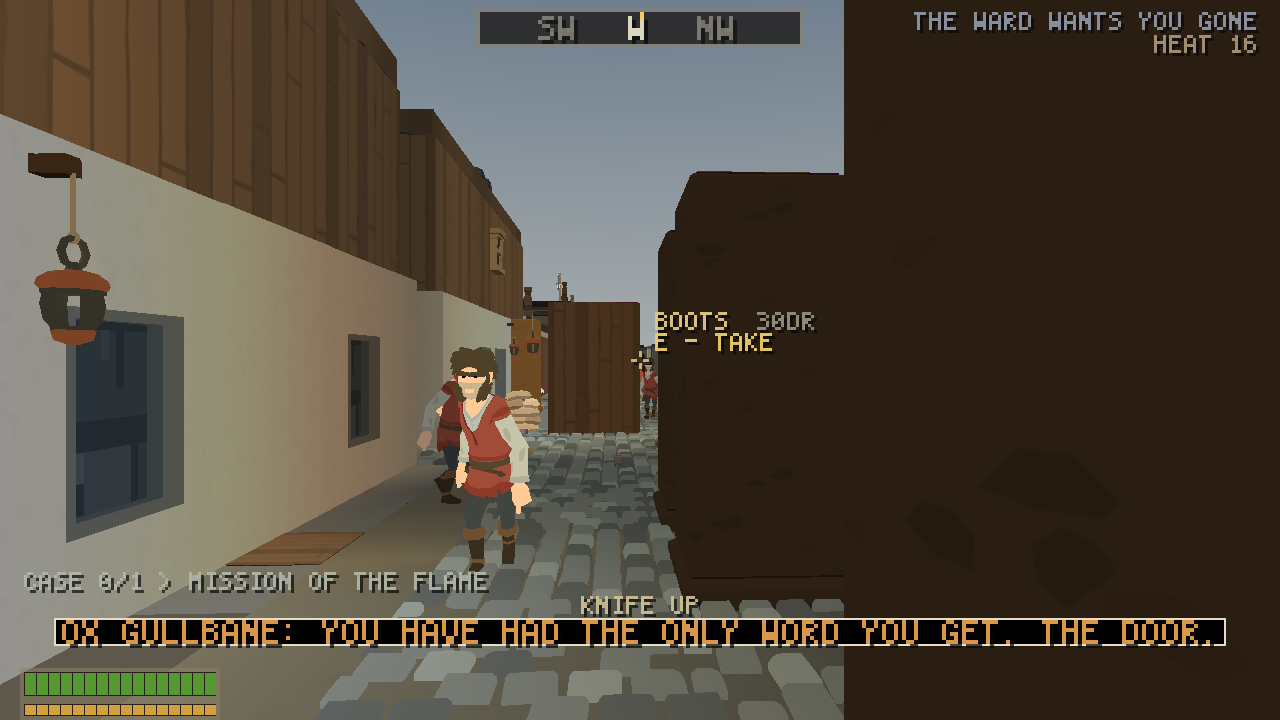
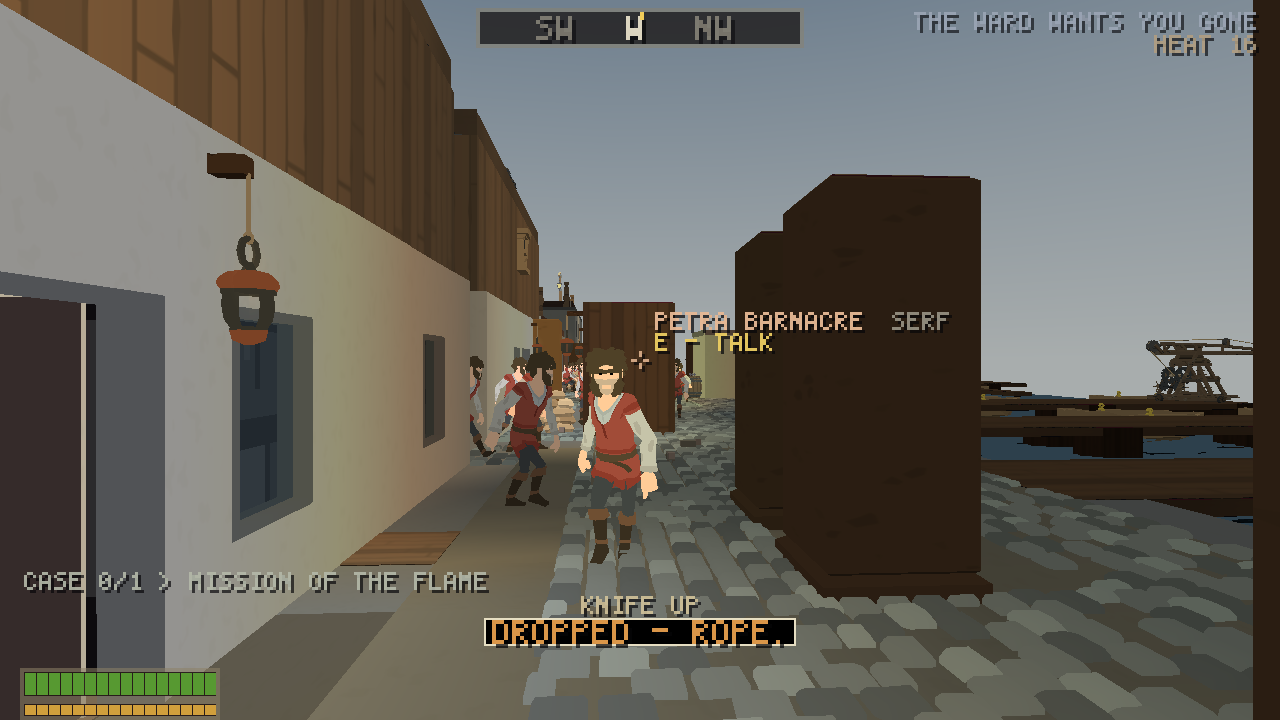
wip(kit): the coil put down a row north of the dockers' line and a tile from the eye; the DR frame settles twelve steps so its row has eased up; the record carries the final tavern number

diff --git a/native/src/render/session.cpp b/native/src/render/session.cpp
@@ -11935,19 +11935,22 @@ void standAtFacing(Session& session, std::int32_t standX, std::int32_t standY,
     }
 
     // 9. DROP: out to the Tarwalk in daylight, the coil put down through the
-    // tile's own X on a tile clear of the quay's clutter, then two tiles
-    // back, facing it, so the frame has it on the boards.
+    // tile's own X on a tile clear of the quay's clutter, then a tile back,
+    // facing it, so the frame has it on the boards.
     session.closeConversation();
-    walkToTile(session, 154, 63);
+    walkToTile(session, 154, 62);
     session.closeConversation();
     if (openKitRow(session, "rope")) {
         session.dropHighlightedKitRow();
     }
     session.closeConversation();
-    standAtFacing(session, 156, 63, 154, 63);
+    // One tile back, off the dockers' own line down the middle of the quay,
+    // so the coil is in reach whatever side of the tile the walk landed on
+    // and nobody is standing on it for the frame.
+    standAtFacing(session, 155, 62, 154, 62);
     bool coilDown = false;
     for (const sim::GroundItem& entry : tavern.groundItems()) {
-        if (entry.item == item("rope") && entry.x == 154 && entry.y == 63) {
+        if (entry.item == item("rope") && entry.x == 154 && entry.y == 62) {
             coilDown = true;
         }
     }

diff --git a/docs/design/DECISIONS.md b/docs/design/DECISIONS.md
@@ -67,7 +67,7 @@ Engine/sim decisions live in ARCHITECTURE.md; this file records the GAMEPLAY lay
[1 lines of base64/hex data omitted]
 | — | Justice fix pass: the critic's eleven defects closed, no baseline moved (added 2026-09-11) | **A world-class-director critique of the justice build scored it 7/10 and named eleven defects; every one is closed on `justice/build` and the two numbers did not move.** (1) **The arrest has its moment on screen** before the bench does anything: the officer's own line (`watch.held` / `maimed` / `condemned`) said on the alert row IN THE ROOM with his hand on you and held `kTakenOfficerSteps` (150), then the cut -- black, one line in the rope plate's register, `TAKEN TO THE MISSION. 23:00.`, held `kTakenPlateSteps` (105) -- then the body at the Mission's door and the page. Every key but Pause is swallowed under the beat; `inCustody()` covers it; the crosshair promises nothing. Pinned on the RENDERED FRAME in `test_hearing_page.cpp` (the drawn frame is the plate byte for byte against the plate composed alone over black, and not black alone). (2) **The priest's openings are keyed by the case** and rotate only within the case: `court.paper` (a thief the Mission has never seen) / `court.paper.door` (THE DOOR above zero), `court.blood`, `court.roofs.hand` / `court.roofs.rope`, `court.nothing` -- sixteen `court.*` tables, three rows each, and every row of a table is true of every hearing that table can open (no row names a gift, a rope, a corpse or a night the sheet may not carry; the lie rows never name the sentence's shape; the learned word is never said to a layman, not even nearly -- ruling 8 of the spec is superseded). Every redlined row rewritten; the full list in `docs/frames/justice/README.md`. (3) **The check block is packed by whole terms** (`packTerms`): a row breaks only between terms, so `- 20 THE WARD` never parts from its sign at 640, 960 or 1280; the row of air before the verdict is the one row that gives at the narrowest window. (4) **A night is a whole night**: `cellNights` rounds the draw's 24..72 h to the nearest night ONCE, in `sentenceTerms`, so `TWO NIGHTS` is 48 h on the clock and the release lands on the same clock face (`DAY 3. 23:00.` from `DAY 1 23:00`, not `DAY 4. 00:00.`); the residue itself is untouched (same-roll discipline). (5) The officer's walking-in line leaves a judged page; (6) no `[THE PRIEST WEIGHS]` badge over nothing (mercy once) and no `55 SPARED` on a confession's lines; (7) each tier's consequence literal says only what is on the table (no rope named on a cell or hand charge; `MERCY OR THE ROPE, AND NOTHING ELSE.` / `AND NEVER SPARED.` on the rope's); (8) the short-way `CrimeLedger::arrest()` writes combat/build's bits exactly on the Condemned rung (`condemned_` + `maimed_`, not `commuted_`, `murderer_` untouched) and the bit-for-bit comment is true again; (9) the HUD tag row fits its 34 columns by construction (a commuted man with fresh blood is `WANTED FOR BLOOD`, the riders drop whole, the number is never lost). (10) **The end rows arm before they take** (the QUIT pattern; `-- SURE? <key>` on the tail; ESC/B disarms), which is also what makes the A NEW MAN frame a distinct state. (11) **`--court=` photographs every state a real verb sequence can reach**: `cull` (his line, his hand on you), `taken` (the plate), `armed`, `hand` (the Skyrunners' oath off Finch first, so the paper asks for the hand and I DID IT lands THE HAND -- real play), `bloodtag`, `ropepage` (THE DROP offered, not taken), beside `wanted`, `page`, `paper`, `plea`, `deny`, `serve`, `rope`, `newman` (armed, then taken). SPARED, COMMUTED, the CONDEMNED tag and the mercy-once page need a warmer ward than the smoke's nobody can earn in one evening and are DECLARED GAPS, proved in the suite and not on a frame. `scripts/shoot-court.ps1` shoots the whole set; the stale 640x360 set is deleted. The critic re-scored it 8/10 and left four nits, folded in: the hand tier's check block prints its own lines (`THE LINES: 38 HELD  14 THE HAND`, no FINED on that tier), the rope's sentence row is the post and the hour (`THE SALTGATE POST. 22:00.`) and not an echo of the badge, the pause menu's WAIT row under the arrest beat reads and says `THE WATCH HAS YOU.` (keyed on `inCustody()`), and the frames README points at the script rather than an ignored log. **No baseline moved**: the tavern twin reads `0x837E94019BC49C25` and the population `0x2646C1AAA2BA38DF` off the re-gated exe (run A == run B, both) -- no hashed field changed, the workload never pleads or serves, the rounding lives in a pure function of the record. |
 
-| — | The Kit landed: the item record, the load, the worn slots, defence v1 (added 2026-09-12) | **D10 of the Oblivion roadmap is BUILT on `lane/kit`, as ruled: inventory lives on the Character tile; gold stays weightless and is not an item; IN HAND is always printed once the Kit exists; a worn slot prints only when the raws hold an item for it; defence v1 is flat integer DR per worn piece; WardActors carry, drop and yield nothing.** Eli, through the wizard, 2026-09-11: *"THE KIT IS A GO."* **THE RECORD:** `content/raws/items/items.json` is the registry (`sim/items.hpp`, the spellbook's tolerant loader shape, document order): id, name, weight in DRAMS, worth in Royals, slot (hand / body / head / feet / trinket / none -- FEET is the one row past the ruling's four, because the authored set carries boots and a boot is not a trinket), the brawl line's own class as a column (`Weapon` is untouched: `strike()` and `classifyFight` read the class exactly as before), the class's span (an authored span that disagrees with its class is REFUSED at load, so the sheet and the roll cannot lie to each other), DR, heat, and one line in the ward's own register. Twenty-three rows, every one a docker's thing: the cudgel, THE EVICTOR (by the id the eviction case grants), a mace, a bottle, a knife, a dagger, a cutlass, a boat-hook, a coat, a hood, boots, a purse, a lantern, a rope, picks, a letter, the bale, the strongbox (fixed: it has a record so the world can draw it and the prompt can name it, and TAKE refuses it out loud), and the five sack goods. **THE KIT** is dense int32 counts per row (the Stash pattern copied whole: hashed, `encode()`/`decode()` BY ID so an appended raw never moves a saved Kit, an id the raws lost refuses the whole image) plus the equip map, one worn row per slot. **THE SACK STAYS THE ILLICIT VIEW:** the five contraband goods are rows so the sheet prints them, but their counts stay in `CrimeLedger::stash()` (hashed under the ledger, codec v5, read by the Watch's load rule, the impound, the contract board and the radiant work); the picks stay on their counter for the same reason; the Kit never stores either and the tile composes one list out of the three. Folding the sack into the Kit would have re-cut the court's codec and six readers for no feel the player could see -- he sees ONE list either way. **THE HAND IS DERIVED:** `playerWeapon()` is the worn hand row's class when one is worn, else the byte `setPlayerCombat`/the enum grant set (the tests' and drives' way of arming a hand with no item behind it; a direct arming bares the hand row). `grantPlayerWeapon("the_evictor")` puts THE EVICTOR in the Kit and on the hand as a THING: weighed, printed, droppable. **THE LOAD:** every dram on the body (the Kit, the sack, the bale on the shoulder, the picks) against `loadCapDrams(MGT) = 160 + 2 x MGT` -- 240 at the base sheet, the sack's own 240, PROGRESSION-SPEC section 5's `300 + 20 x MGT` in this build's units, off the EFFECTIVE sheet so a held Might tuning carries more. TAKE refuses past it with the numbers on the row (`TOO MUCH ON YOU ALREADY. 238 OF 240 DRAMS.`); the legs slow through `loadSpeedScaleQ8` (256 to half the budget, down to 128 at it) composed with AGI's gait at the one movement seam (`Session::step`, `PlayerBody::setSpeedScaleQ8`) -- player only, integer, never a WardActor. **DEFENCE v1:** the sum of every worn piece's DR comes off a landed blow AFTER the guard has argued, floored at one point through any coat (blockedDamage's own floor, for its reason: armour that nulls a blow turns the fight OFF), at the ONE place a blow lands on the body (`stepBrawl`); HARNESS trains on a blow the kit softened; the row says `COAT TURNS 2.` once per blow. COMBAT-SPEC's coverage-weighted AC and per-part wear stay the v2 ceiling. **THE VERBS, through the existing interact chain and the Menu's own grammar, no new key:** the crosshair names the thing (`TAKE  ROPE  48DR`, `TAKE QUIETLY` crouched -- the stance moves who notices, never the verb) and says THEIRS in its own Owned accent (the reference's red hand) BEFORE the press when taking it is theft (the same three-clause witness rule, `Crime::Lift`, `Deed::Robbed`, the house's own offence); a thing on the ground outranks the street's people (a mouse was TALK over a rope) and a named lead outranks the thing (the investigation first); a Dead roster body in reach is `SEARCH  <NAME>  DEAD` when no living body is nearer, and the press opens his kit -- the authored corpse kit for his name, then his role, less what was taken (a hashed mask), TAKE ALL as the last row -- on the Grimoire widget (`grimoireOpen_` with a corpse id: no fifteenth page flag); the dead do not witness the taking and nothing in the ward's law names it (v1). On the Character tile: IN HAND, the worn slot rows (`ON THE BACK  COAT  DR 2`, `AT THE BELT  NOTHING`), `LOAD  151 / 240 DRAMS`, then every carried row with its weight and worth and its IN HAND / WORN / SLOT n / HOT marks; ENTER wears or bares the row, LEFT/RIGHT walk its quick slot (the Grimoire's own cycle: a slot is a spell OR an item, tagged `item:<id>`, and the strip and the number key read either), X drops it at the feet. **THE WORLD DRAWS IT:** `PieceRole::Item` and the catalogue's `items` table (`content/raws/world3d/docks-pieces.json`: one Synty static per item id, a point-up weapon pitched flat) -- `render3d/ground_items.cpp` writes the room's hashed ground list, the four strongboxes and the snug's bale as instances per frame after the placed pieces; the renderer never removes one (TAKE does, in the sim); the placeholder rule holds (no file, no draw, the sim untouched). **THE ONE DECLARED tavern/gate-workload baseline move, re-blessed ONCE: `0x837E94019BC49C25` (justice/build) -> `0x4AD7CF75C5A0A326` (lane/kit), `granadad-twin-gate --tavern --ticks 900`, run A == run B** -- the Kit's counts and worn rows, the ground list, the corpse masks and the turned-blow counters joined `Tavern::hash_into`; the workload never takes, drops or wears and the draw schedule did not move. The population baseline `0x2646C1AAA2BA38DF` did NOT move (no WardActor touched; the street carries nothing, by ruling). **A corpse-convention fix found by the line, folded in:** the door's responder was replaced only when `Downed`, so a bouncer the player had KILLED was stood back up by the ladder's own `setActivity` and could be talked to; the responder, the on-duty pick and the vermin loops read `isFloored` now. **NOT done, said so:** attributes deriving from skills (D10's last clause) -- every runtime reader of MGT/AGI/VIG/WIT and every pinned pool, gait and damage number moves with it, so it is its own gated pass; the load budget already reads `effectiveAttributes()` and follows the day it lands. Proved by `test_kit.cpp` (17 cases), `test_kit_page.cpp` (6), the rewritten `test_character.cpp` pins (24 rows bare, 25 armed) and the `--kit[=take|theirs|sheet|equip|slot|dr|search|load|drop]` line in `test_scripted_lines.cpp`; photographed through that line into `docs/frames/kit/` (`scripts/shoot-kit.ps1`), its README the fidelity table. |
+| — | The Kit landed: the item record, the load, the worn slots, defence v1 (added 2026-09-12) | **D10 of the Oblivion roadmap is BUILT on `lane/kit`, as ruled: inventory lives on the Character tile; gold stays weightless and is not an item; IN HAND is always printed once the Kit exists; a worn slot prints only when the raws hold an item for it; defence v1 is flat integer DR per worn piece; WardActors carry, drop and yield nothing.** Eli, through the wizard, 2026-09-11: *"THE KIT IS A GO."* **THE RECORD:** `content/raws/items/items.json` is the registry (`sim/items.hpp`, the spellbook's tolerant loader shape, document order): id, name, weight in DRAMS, worth in Royals, slot (hand / body / head / feet / trinket / none -- FEET is the one row past the ruling's four, because the authored set carries boots and a boot is not a trinket), the brawl line's own class as a column (`Weapon` is untouched: `strike()` and `classifyFight` read the class exactly as before), the class's span (an authored span that disagrees with its class is REFUSED at load, so the sheet and the roll cannot lie to each other), DR, heat, and one line in the ward's own register. Twenty-three rows, every one a docker's thing: the cudgel, THE EVICTOR (by the id the eviction case grants), a mace, a bottle, a knife, a dagger, a cutlass, a boat-hook, a coat, a hood, boots, a purse, a lantern, a rope, picks, a letter, the bale, the strongbox (fixed: it has a record so the world can draw it and the prompt can name it, and TAKE refuses it out loud), and the five sack goods. **THE KIT** is dense int32 counts per row (the Stash pattern copied whole: hashed, `encode()`/`decode()` BY ID so an appended raw never moves a saved Kit, an id the raws lost refuses the whole image) plus the equip map, one worn row per slot. **THE SACK STAYS THE ILLICIT VIEW:** the five contraband goods are rows so the sheet prints them, but their counts stay in `CrimeLedger::stash()` (hashed under the ledger, codec v5, read by the Watch's load rule, the impound, the contract board and the radiant work); the picks stay on their counter for the same reason; the Kit never stores either and the tile composes one list out of the three. Folding the sack into the Kit would have re-cut the court's codec and six readers for no feel the player could see -- he sees ONE list either way. **THE HAND IS DERIVED:** `playerWeapon()` is the worn hand row's class when one is worn, else the byte `setPlayerCombat`/the enum grant set (the tests' and drives' way of arming a hand with no item behind it; a direct arming bares the hand row). `grantPlayerWeapon("the_evictor")` puts THE EVICTOR in the Kit and on the hand as a THING: weighed, printed, droppable. **THE LOAD:** every dram on the body (the Kit, the sack, the bale on the shoulder, the picks) against `loadCapDrams(MGT) = 160 + 2 x MGT` -- 240 at the base sheet, the sack's own 240, PROGRESSION-SPEC section 5's `300 + 20 x MGT` in this build's units, off the EFFECTIVE sheet so a held Might tuning carries more. TAKE refuses past it with the numbers on the row (`TOO MUCH ON YOU ALREADY. 238 OF 240 DRAMS.`); the legs slow through `loadSpeedScaleQ8` (256 to half the budget, down to 128 at it) composed with AGI's gait at the one movement seam (`Session::step`, `PlayerBody::setSpeedScaleQ8`) -- player only, integer, never a WardActor. **DEFENCE v1:** the sum of every worn piece's DR comes off a landed blow AFTER the guard has argued, floored at one point through any coat (blockedDamage's own floor, for its reason: armour that nulls a blow turns the fight OFF), at the ONE place a blow lands on the body (`stepBrawl`); HARNESS trains on a blow the kit softened; the row says `COAT TURNS 2.` once per blow. COMBAT-SPEC's coverage-weighted AC and per-part wear stay the v2 ceiling. **THE VERBS, through the existing interact chain and the Menu's own grammar, no new key:** the crosshair names the thing (`TAKE  ROPE  48DR`, `TAKE QUIETLY` crouched -- the stance moves who notices, never the verb) and says THEIRS in its own Owned accent (the reference's red hand) BEFORE the press when taking it is theft (the same three-clause witness rule, `Crime::Lift`, `Deed::Robbed`, the house's own offence); a thing on the ground outranks the street's people (a mouse was TALK over a rope) and a named lead outranks the thing (the investigation first); a Dead roster body in reach is `SEARCH  <NAME>  DEAD` when no living body is nearer, and the press opens his kit -- the authored corpse kit for his name, then his role, less what was taken (a hashed mask), TAKE ALL as the last row -- on the Grimoire widget (`grimoireOpen_` with a corpse id: no fifteenth page flag); the dead do not witness the taking and nothing in the ward's law names it (v1). On the Character tile: IN HAND, the worn slot rows (`ON THE BACK  COAT  DR 2`, `AT THE BELT  NOTHING`), `LOAD  151 / 240 DRAMS`, then every carried row with its weight and worth and its IN HAND / WORN / SLOT n / HOT marks; ENTER wears or bares the row, LEFT/RIGHT walk its quick slot (the Grimoire's own cycle: a slot is a spell OR an item, tagged `item:<id>`, and the strip and the number key read either), X drops it at the feet. **THE WORLD DRAWS IT:** `PieceRole::Item` and the catalogue's `items` table (`content/raws/world3d/docks-pieces.json`: one Synty static per item id, a point-up weapon pitched flat) -- `render3d/ground_items.cpp` writes the room's hashed ground list, the four strongboxes and the snug's bale as instances per frame after the placed pieces; the renderer never removes one (TAKE does, in the sim); the placeholder rule holds (no file, no draw, the sim untouched). **THE ONE DECLARED tavern/gate-workload baseline move, re-blessed ONCE: `0x837E94019BC49C25` (justice/build) -> `0x63F354D02A6B600F` (lane/kit), `granadad-twin-gate --tavern --ticks 900`, run A == run B** -- the Kit's counts and worn rows, the ground list, the corpse masks and the turned-blow counters joined `Tavern::hash_into`; the workload never takes, drops or wears and the draw schedule did not move. The population baseline `0x2646C1AAA2BA38DF` did NOT move (no WardActor touched; the street carries nothing, by ruling). **A corpse-convention fix found by the line, folded in:** the door's responder was replaced only when `Downed`, so a bouncer the player had KILLED was stood back up by the ladder's own `setActivity` and could be talked to; the responder, the on-duty pick and the vermin loops read `isFloored` now. **NOT done, said so:** attributes deriving from skills (D10's last clause) -- every runtime reader of MGT/AGI/VIG/WIT and every pinned pool, gait and damage number moves with it, so it is its own gated pass; the load budget already reads `effectiveAttributes()` and follows the day it lands. Proved by `test_kit.cpp` (17 cases), `test_kit_page.cpp` (6), the rewritten `test_character.cpp` pins (24 rows bare, 25 armed) and the `--kit[=take|theirs|sheet|equip|slot|dr|search|load|drop]` line in `test_scripted_lines.cpp`; photographed through that line into `docs/frames/kit/` (`scripts/shoot-kit.ps1`), its README the fidelity table. |
 
 Spec documents (produced by the gameplay spec track, live in this folder):
 - `COMBAT-ACTION-SPEC.md` — the BUILT action-combat model (spec + veto pass assembled): sightline raycast, in-world lethal rules, death, murder hook, the build-lane contract

diff --git a/docs/frames/kit/README.md b/docs/frames/kit/README.md
@@ -26,10 +26,10 @@ number is the budget, the hand is mirrored on the HUD, and the world draws the t
 | `kit-sheet-960x540.png` | `--kit=sheet` | The Character tile on the carried rows. `IN HAND  FISTS 3-5 IMPACT` ends page one. `ON THE BACK  NOTHING`, `ON THE HEAD`, `ON THE FEET`, `AT THE BELT`, `LOAD  151 / 240 DRAMS`, then `KNIFE  8DR  4C`, `COAT  60DR  12C`, `LANTERN  30DR  9C`, `ROPE  48DR  6C`, `5 PICKS  5DR  10C`. The epithet is the verbs in the keyboard's own words. | The Inventory tab, weight and value per row, one budget | Same numbers, words instead of icons. No doll, by ruling. The equipment block is worded rows and only the slots the raws fill. |
 | `kit-equip-960x540.png` | `--kit=equip` | ENTER on the coat, ENTER on the knife. `ON THE BACK  COAT  DR 2`, `KNIFE  8DR  4C  IN HAND`, `COAT  60DR  12C  WORN`. `IN HAND  KNIFE 11-13 EDGE` on page one. | Equip on a row, the doll changes | Same press. The consequence is the row's own mark and the DR beside the slot, not a picture. |
 | `kit-slot-960x540.png` | `--kit=slot --settle-steps=0` | The knife walked onto slot 3 with RIGHT, the 3 key pressed. The strip at the foot, `KNIFE` in the third cell, the cell inverted, `SLOT 3 - KNIFE.` on the row. The hands row reads `KNIFE UP` when the hands come up. | The hotkey wheel readies a weapon without the menu | Same shape. A slot is a spell or an item, the number row and the D-pad step read either. |
-| `kit-dr-960x540.png` | `--kit=dr --settle-steps=0` | The clock at two. Fists on Ox Gullbane at the door, the coat on. His blow lands and `COAT TURNS 2` comes up in the centre stack on the step it did, its own row in the blocked wash's steel ink, held a plate's length. The body lost the rest. Ox's warning keeps the alert row, the house minds you. | Armor rating softening a hit | Flat DR per worn piece, floored at one, said once per blow. Coverage and wear are the v2 ceiling. |
+| `kit-dr-960x540.png` | `--kit=dr --settle-steps=12` | The clock at two. Fists on Ox Gullbane at the door, the coat on. His blow lands and `COAT TURNS 2` comes up in the centre stack on the step it did, its own row in the blocked wash's steel ink, held a plate's length. The body lost the rest. Ox's warning keeps the alert row, the house minds you. | Armor rating softening a hit | Flat DR per worn piece, floored at one, said once per blow. Coverage and wear are the v2 ceiling. |
 | `kit-search-960x540.png` | `--kit=search` | The knife back in hand off slot 3, Ox put down for good. Over him the crosshair reads `SEARCH  OX GULLBANE  DEAD`. The press opens his kit on the list widget, `1 CUDGEL  40DR  6C`, `2 BOOTS  30DR  8C`, `3 TAKE ALL`. | Search on a body, the transfer list, Take All | Same list, one column. What he carried is his role's authored kit, the roster only. The street's people carry nothing, by ruling. |
 | `kit-load-960x540.png` | `--kit=load` | Everything off him, the bottle and the hood off the tables. `LOAD  238 / 240 DRAMS` on the tile. The summary reads `legs=131/256`, half pace, and the next take would refuse with the numbers on the row. | Encumbrance, the slowdown, the hard stop | Same budget shape. 256 to half, down to 128 at the budget, TAKE refuses past it. |
-| `kit-drop-1280x720.png` | `--kit=drop --settle-steps=0` | Out on the Tarwalk in daylight. The coil put down through the tile's own X, `DROPPED - ROPE.` on the row, the body two tiles back facing it. The coil is the Synty rope knot on the boards, the crosshair names it again. | Drop, and the thing is in the world | Same shape. The renderer draws the room's own list and never removes a thing, TAKE does. |
+| `kit-drop-1280x720.png` | `--kit=drop --settle-steps=0` | Out on the Tarwalk in daylight. The coil put down through the tile's own X, `DROPPED - ROPE.` on the row, the body a tile back facing it. The coil is the Synty rope knot on the boards, the crosshair names it again. | Drop, and the thing is in the world | Same shape. The renderer draws the room's own list and never removes a thing, TAKE does. |
 | `kit-full-960x540.png` | `--kit` | The whole line, the tile again on what is left. | | The default ending. |
 
 ## The item table

diff --git a/docs/BASELINE-WORLD-HASH.md b/docs/BASELINE-WORLD-HASH.md
@@ -645,13 +645,13 @@ record did not have to be re-cut.
 ```
 at branch lane/kit,
 granadad-twin-gate --tavern --ticks 900
-COMBINED WORLD HASH: 0x837E94019BC49C25 -> 0x4AD7CF75C5A0A326      <- DECLARED and RE-BLESSED
+COMBINED WORLD HASH: 0x837E94019BC49C25 -> 0x63F354D02A6B600F      <- DECLARED and RE-BLESSED
 ```
 
 Recorded directly from `dist\granadad-twin-gate.exe --tavern --ticks 900` on
 Windows/mingw, two invocations, each `run A` == `run B` ==
-`0x4AD7CF75C5A0A326`, report text byte-identical (3,153 bytes) -- on the gate
-whose stamp names this tree (`native/` digest `GATE_DIGEST`, 323 files, 96/96
+`0x63F354D02A6B600F`, report text byte-identical (3,153 bytes) -- on the gate
[1 lines of base64/hex data omitted]
 ctest entries green, 1,194 doctest cases -- `test_kit.cpp`,
 `test_kit_page.cpp` and the `--kit` lines in `test_scripted_lines.cpp` among
 them; `verify-windows.ps1` PASS -- 1,194 sim cases / 2,164,818 assertions and
@@ -671,7 +671,7 @@ street's people carry, drop and yield nothing (D10): the Kit's stands are
 authored tavern tiles and the corpse kits are the roster's, and the ONE call
 the renderer makes reads the room's list and writes nothing back.
 
-**The tavern baseline is therefore re-blessed at `0x4AD7CF75C5A0A326` with one
+**The tavern baseline is therefore re-blessed at `0x63F354D02A6B600F` with one
 declared record change behind it** -- the Kit, the ground, the corpse masks
 and the turned-blow counters on the room the tavern hashes. The next lane
 that changes the SHAPE of what the room hashes (a save frame's own fields, the
